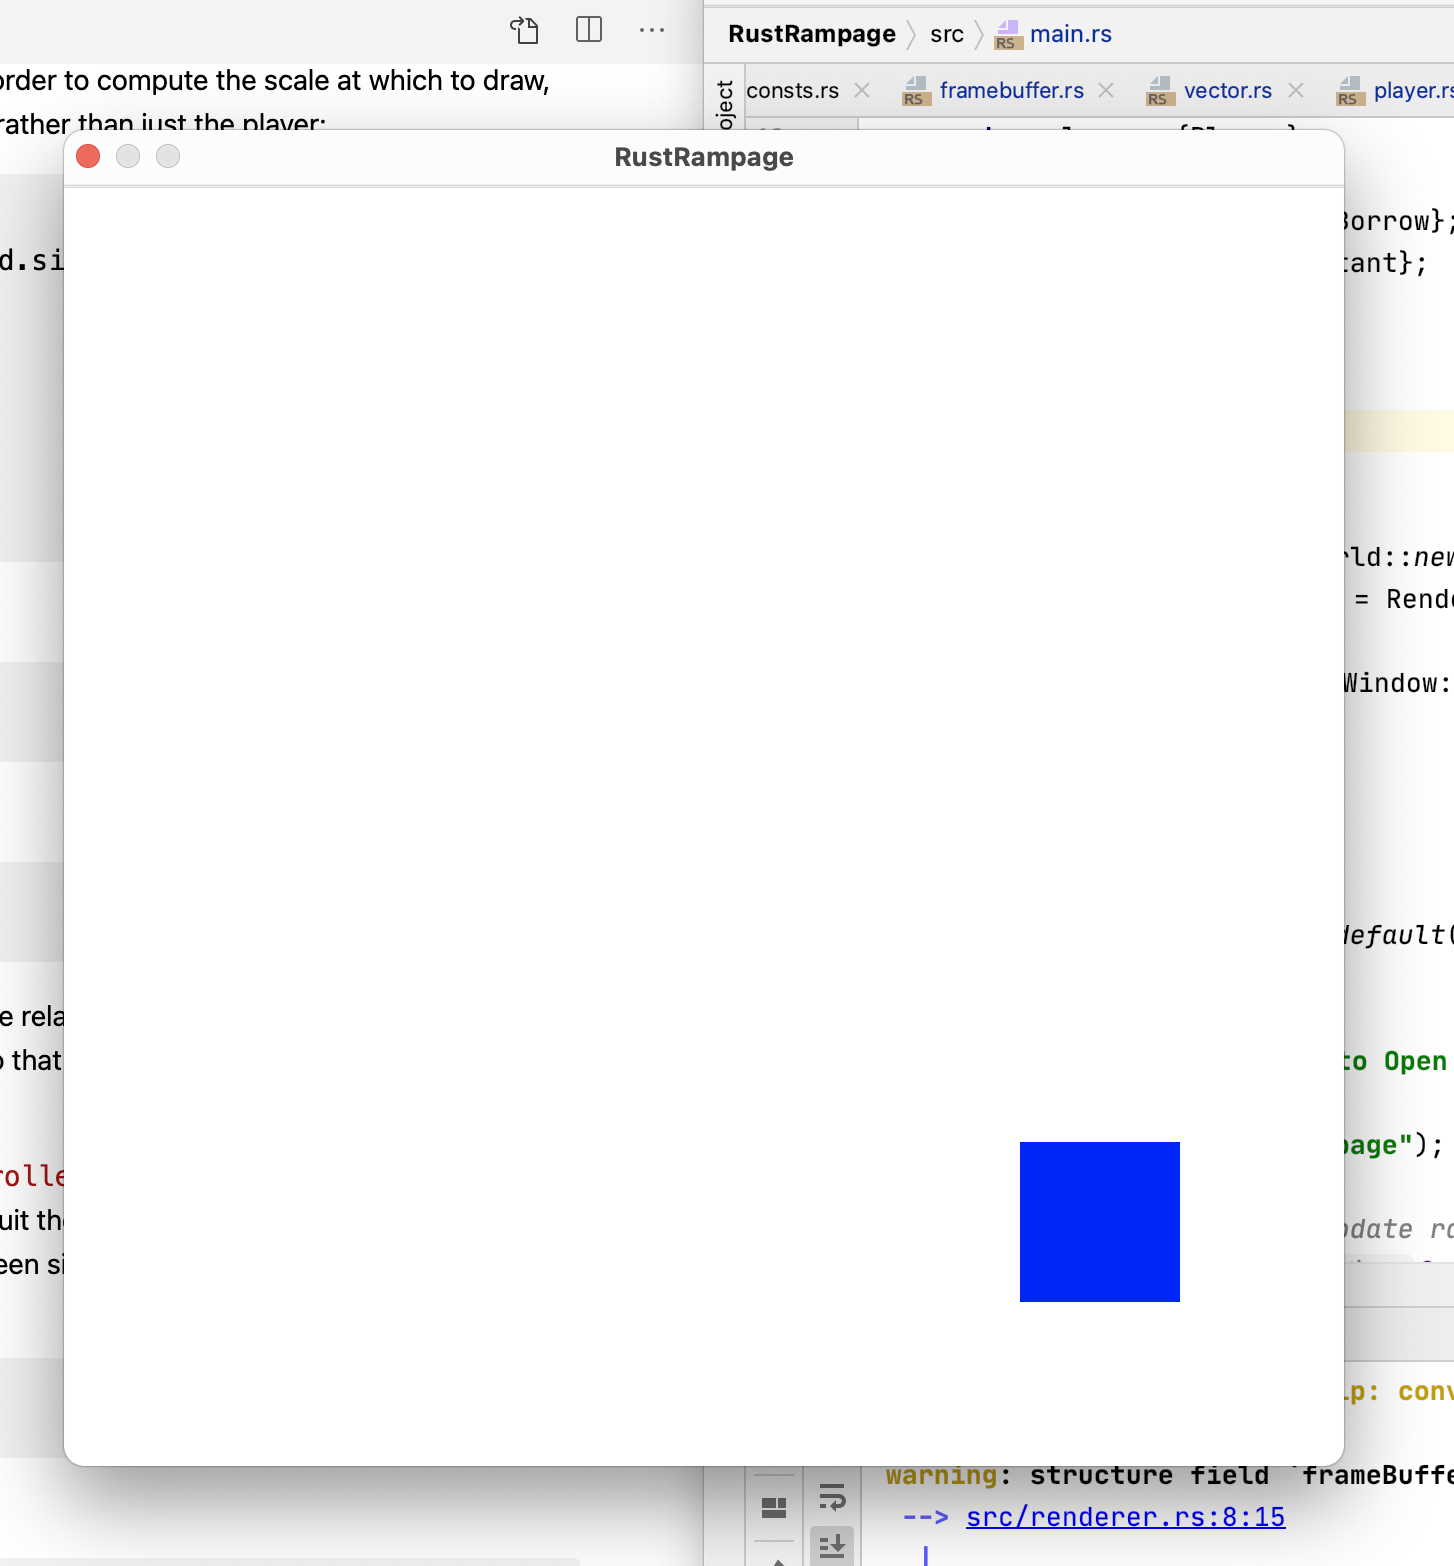
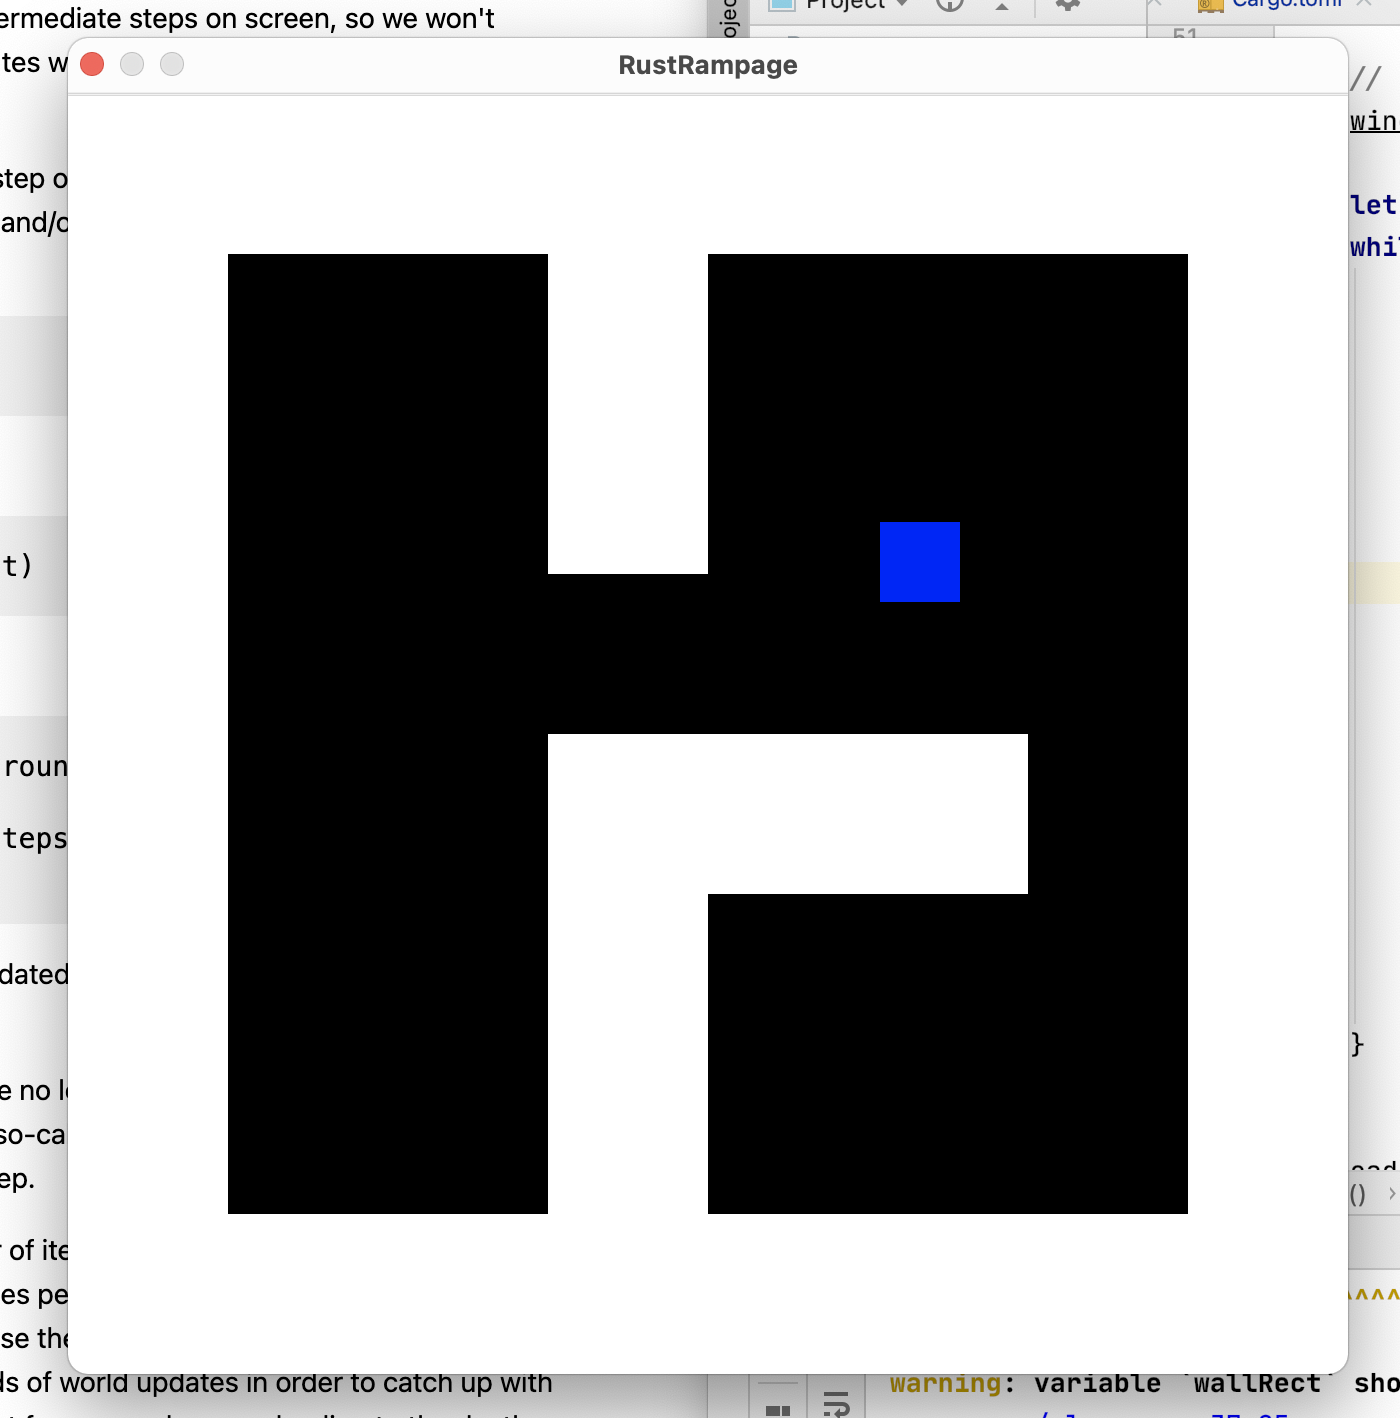
Chapter II Part V - Finished Collision Detection

diff --git a/src/player.rs b/src/player.rs
@@ -25,19 +25,28 @@ impl Player {
         return Rect::new(self.position - half_size, self.position + half_size);
     }
 
-    pub fn is_intersecting(&self, map: &Tilemap) -> bool {
+    pub fn is_intersecting(&self, map: &Tilemap) -> Option<Vector> {
         let rect = self.rect();
         let (minX, maxX, minY, maxY)
             = (rect.min.x as usize, rect.max.x as usize,
                rect.min.y as usize, rect.max.y as usize);
+        let mut largestIntersection: Option<Vector> = None;
         for y in (minY..=maxY).step_by(1) {
             for x in (minX..=maxX).step_by(1) {
                 if map.get_tile(x, y).is_wall() {
-                    return true
+                    let wallRect = Rect::new(Vector::new(x as f64, y as f64),
+                                                    Vector::new((x+1) as f64, (y+1)
+                                                        as f64));
+                    let intersection = rect.intersection(wallRect);
+                    if largestIntersection.is_none() ||
+                        (intersection.is_some()
+                            && intersection.unwrap().length() > largestIntersection.unwrap().length()) {
+                        largestIntersection = intersection.clone();
+                    }
                 }
             }
         }
-        return false;
+        return largestIntersection;
     }
 
 }

diff --git a/src/rect.rs b/src/rect.rs
@@ -1,6 +1,7 @@
 use crate::vector::Vector;
+use ordered_float::OrderedFloat;
 
-#[derive(Debug)]
+#[derive(Debug,Clone,Copy)]
 pub struct Rect {
     pub min: Vector,
     pub max: Vector
@@ -12,5 +13,27 @@ impl Rect {
             min: min,
             max: max
         }
+    }
+
+    pub fn intersection(&self, with: Rect) -> Option<Vector> {
+        let left = Vector::new(self.max.x - with.min.x, 0.0);
+        if left.x <= 0.0 {
+           return None
+        }
+        let right = Vector::new(self.min.x - with.max.x, 0.0);
+        if right.x >= 0.0 {
+           return None
+        }
+        let up = Vector::new(0.0, self.max.y - with.min.y);
+        if up.y <= 0.0 {
+            return None
+        }
+        let down = Vector::new(0.0, self.min.y - with.max.y);
+        if down.y >= 0.0 {
+            return None
+        }
+        let mut vectors = [left, right, up, down];
+        vectors.sort_by_key(|k|OrderedFloat(k.length()));
+        return vectors.first().cloned();
     }
 }

diff --git a/src/world.rs b/src/world.rs
@@ -32,12 +32,15 @@ impl World {
         }
     }
 
-    pub fn update(&mut self, time_step: f64, input: Input) {
-        let oldPosition = self.player.position.clone();
+    pub fn update(&mut self, time_step: f64, input: &Input) {
         self.player.velocity = Vector::multiply_vector(input.velocity, self.player.speed);
         self.player.position += Vector::multiply_vector(self.player.velocity, time_step);
-        if self.player.is_intersecting(&self.map) {
-            self.player.position = oldPosition
+        while let intersection = self.player.is_intersecting(&self.map) {
+            if intersection.is_some() {
+                self.player.position -= intersection.unwrap()
+            } else {
+                break;
+            }
         }
 
         self.player.position.x = self.player.position.x % 8.0;

diff --git a/src/main.rs b/src/main.rs
@@ -20,9 +20,14 @@ use crate::tilemap::Tilemap;
 use std::error::Error;
 use crate::vector::Vector;
 use crate::input::Input;
+use std::cmp::min;
 
 const WIDTH: usize = 320;
 const HEIGHT: usize = 320;
+
+const MAX_TIMESTEP : f64 = 1.0/20.0;
+const WORLD_TIMESTEP : f64 = 1.0/120.0;
+
 
 fn main() {
 
@@ -52,7 +57,13 @@ fn main() {
         let now = Instant::now();
         let input = handle_input(&window);
 
-        world.update(last_frame_time, input);
+        let timestep = f64::min(MAX_TIMESTEP, last_frame_time);
+        let worldSteps = (timestep / WORLD_TIMESTEP).ceil();
+
+        for i in (0.. worldSteps as i32).step_by(1) {
+            world.update(timestep, &input);
+        }
+
         renderer.draw(&world);
 
         // We unwrap here as we want this code to exit if it fails

diff --git a/src/vector.rs b/src/vector.rs
@@ -21,6 +21,10 @@ impl Vector {
     pub fn multiply_vector(vector: Vector, multiplier: f64) -> Vector {
         return Vector::new(vector.x * multiplier, vector.y * multiplier);
     }
+
+    pub fn length(&self) -> f64 {
+        return (self.x * self.x + self.y * self.y).sqrt()
+    }
 }
 
 
